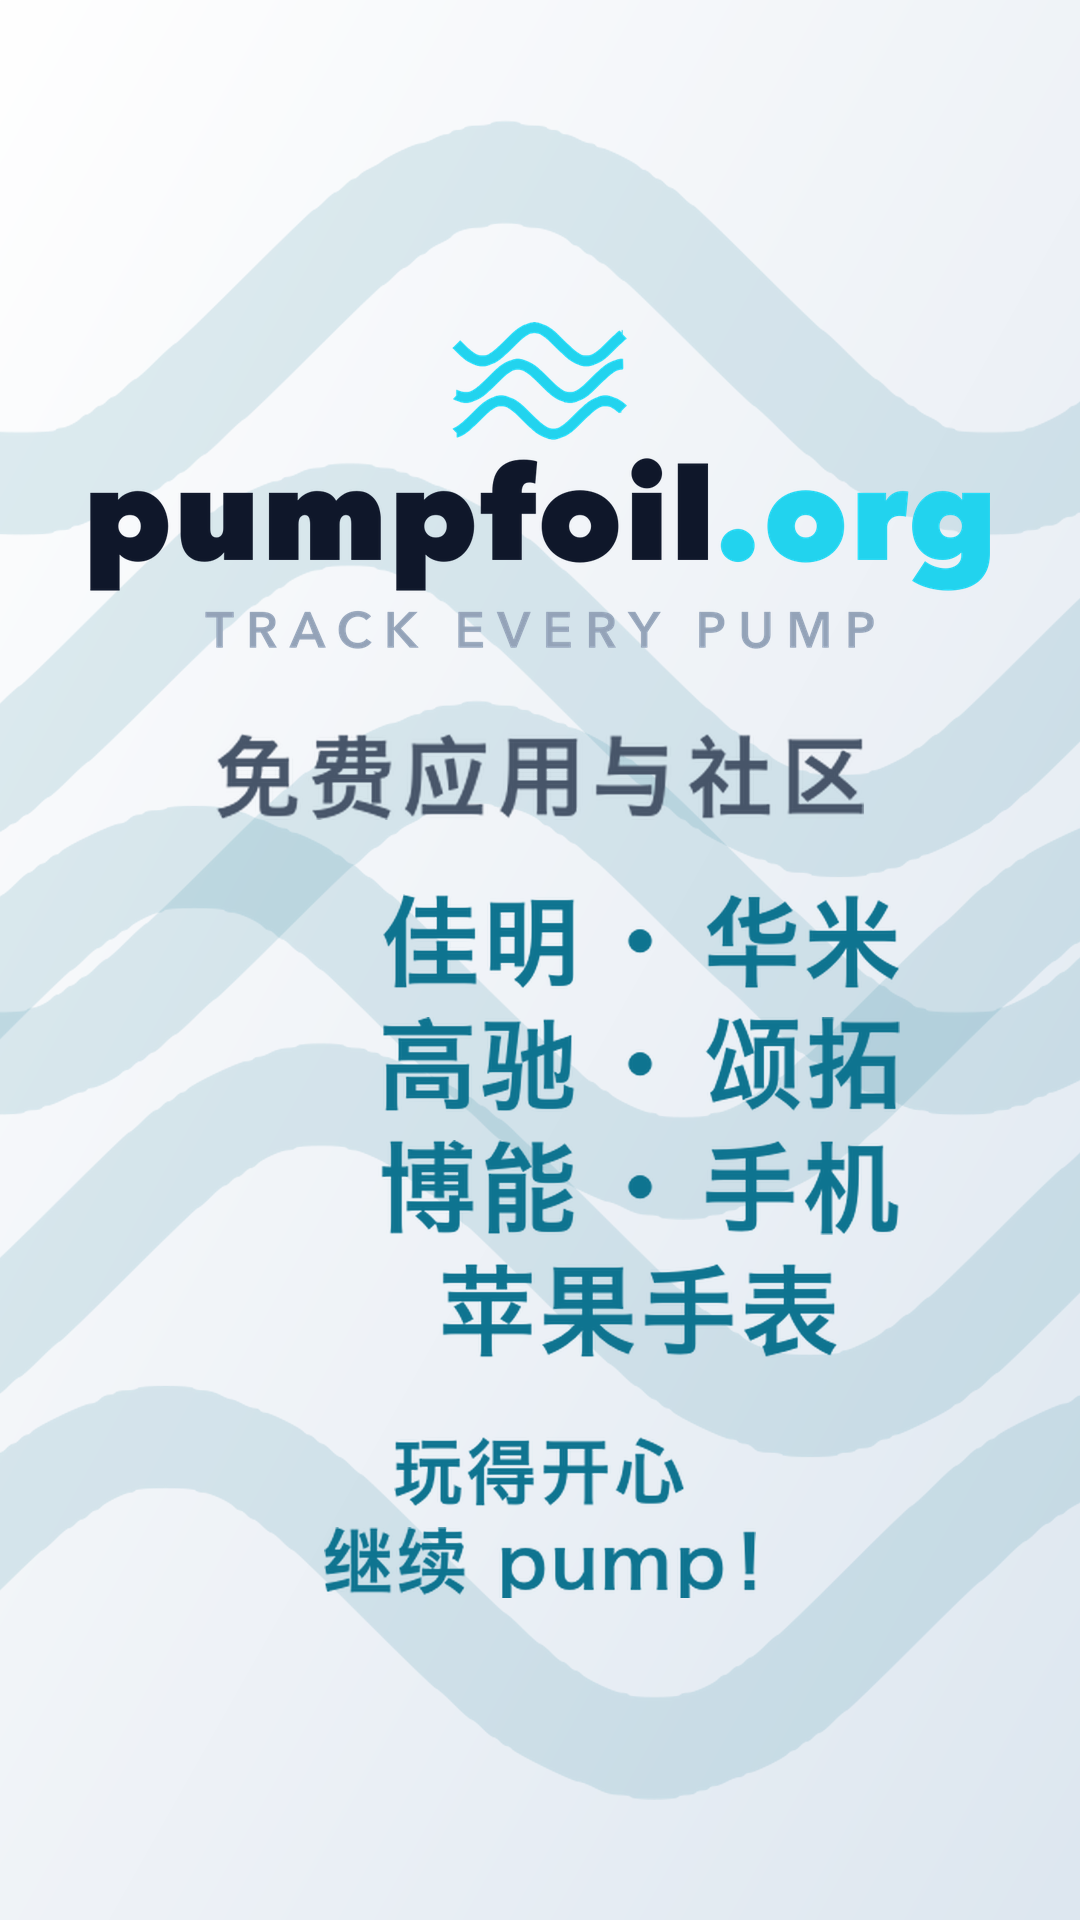
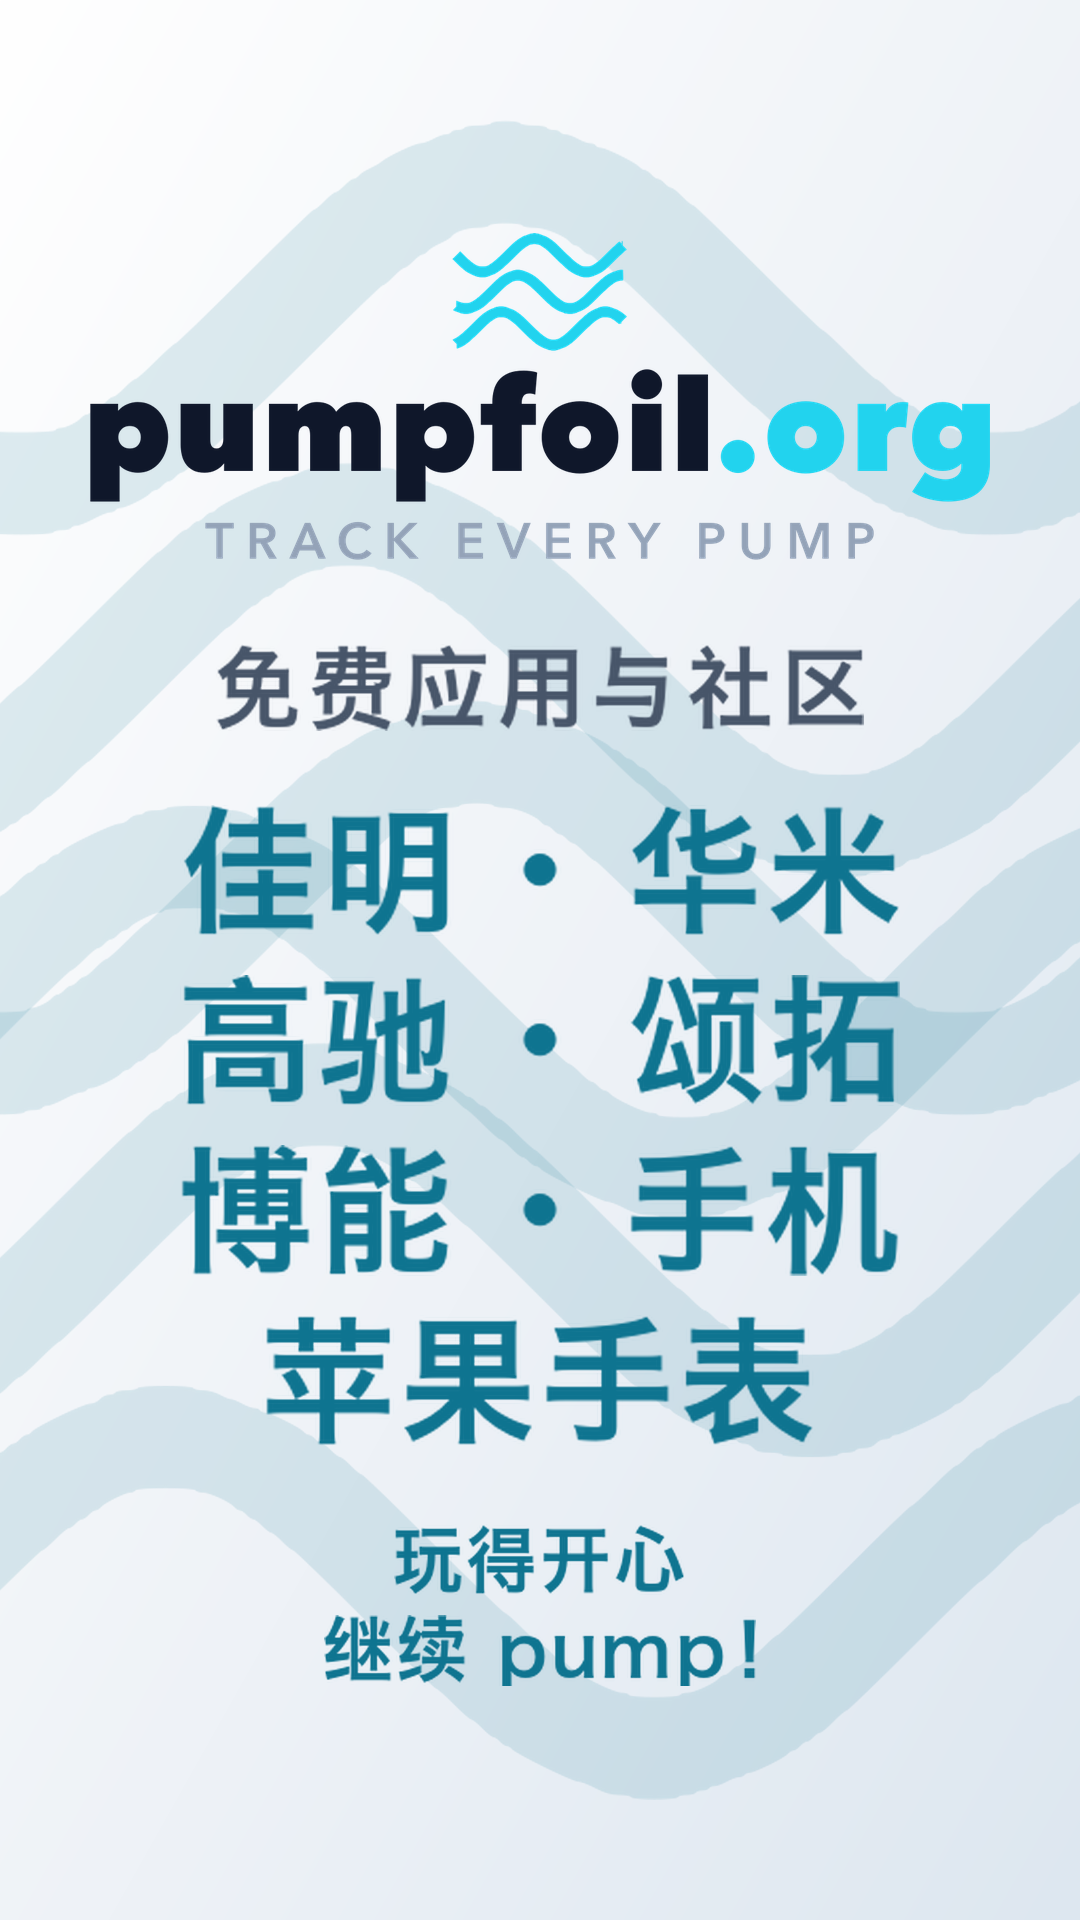
Chinesische Endcard: Punkt-Achse liegt jetzt in der Bildmitte
Die Achse sass rechts von der Mitte. Grund: sie lag bei der Breite der linken
Spalte, und die wurde von 苹果手表 bestimmt — vier Zeichen links gegen zwei
rechts. Jetzt sind beide Spalten gleich breit (die breiteste eines PAARES),
die Achse liegt damit in der Mitte des Blocks, und weil der Block mittig
gesetzt wird, sitzen die Punkte auf der Bildmitte. Nachgemessen: Punkt bei
x = 540 von 1080.

Alleinstehende Eintraege zaehlen fuer die Spaltenbreite nicht mit — sie sitzen
mittig auf der Achse und duerfen ueberhaengen. Sonst haette 苹果手表 das
Problem nur verlagert.

Changed region(s): [[0.0611, 0.125, 0.9167, 0.875]]

diff --git a/brand/master/endcard.py b/brand/master/endcard.py
@@ -139,22 +139,31 @@ def paar_zeilen(paare, zeile_bild, px: int, tracking: int) -> list:
     luft = round(px * 0.55)                       # Abstand Punkt <-> Text
     links = [zeile_bild(a, px, tracking) for a, _ in paare]
     rechts = [zeile_bild(b, px, tracking) if b else None for _, b in paare]
-    l_max = max(i.width for i in links)
-    r_max = max((i.width for i in rechts if i), default=0)
     hoehe = max(i.height for i in links + [i for i in rechts if i])
-    breite = l_max + luft + punkt.width + luft + r_max
-    achse = l_max + luft + punkt.width / 2        # Mitte des Punktes
+
+    # Beide Spalten gleich breit, damit die Achse in der MITTE des Blocks liegt.
+    # Sonst zieht ein langer Name auf einer Seite den Punkt aus der Bildmitte —
+    # 苹果手表 hat vier Zeichen und stand links, also sassen die Punkte zu weit
+    # rechts (Jan, 10.09.). Alleinstehende Eintraege zaehlen dabei NICHT mit,
+    # die sitzen ohnehin mittig auf der Achse und duerfen ueberhaengen.
+    paar_breiten = [i.width for i, (_, b) in zip(links, paare) if b]
+    paar_breiten += [i.width for i in rechts if i]
+    spalte = max(paar_breiten, default=0)
+    kern = spalte + luft + punkt.width + luft + spalte
+    solo = max((i.width for i, r in zip(links, rechts) if r is None), default=0)
+    breite = max(kern, solo)
+    achse = breite / 2
+    oben = lambda i: (hoehe - i.height) // 2      # noqa: E731 — senkrecht mittig
+
     out = []
     for li, ri in zip(links, rechts):
-        img = Image.new("RGBA", (breite, hoehe), (0, 0, 0, 0))
+        img = Image.new("RGBA", (round(breite), hoehe), (0, 0, 0, 0))
         if ri is None:
-            # Einzelner Eintrag: mittig auf die Achse, nicht auf die Zeile.
-            img.alpha_composite(li, (round(achse - li.width / 2), (hoehe - li.height) // 2))
+            img.alpha_composite(li, (round(achse - li.width / 2), oben(li)))
         else:
-            img.alpha_composite(li, (l_max - li.width, (hoehe - li.height) // 2))
-            img.alpha_composite(punkt, (l_max + luft, (hoehe - punkt.height) // 2))
-            img.alpha_composite(ri, (l_max + luft + punkt.width + luft,
-                                     (hoehe - ri.height) // 2))
+            img.alpha_composite(li, (round(achse - punkt.width / 2 - luft - li.width), oben(li)))
+            img.alpha_composite(punkt, (round(achse - punkt.width / 2), oben(punkt)))
+            img.alpha_composite(ri, (round(achse + punkt.width / 2 + luft), oben(ri)))
         out.append(img)
     return out
 
